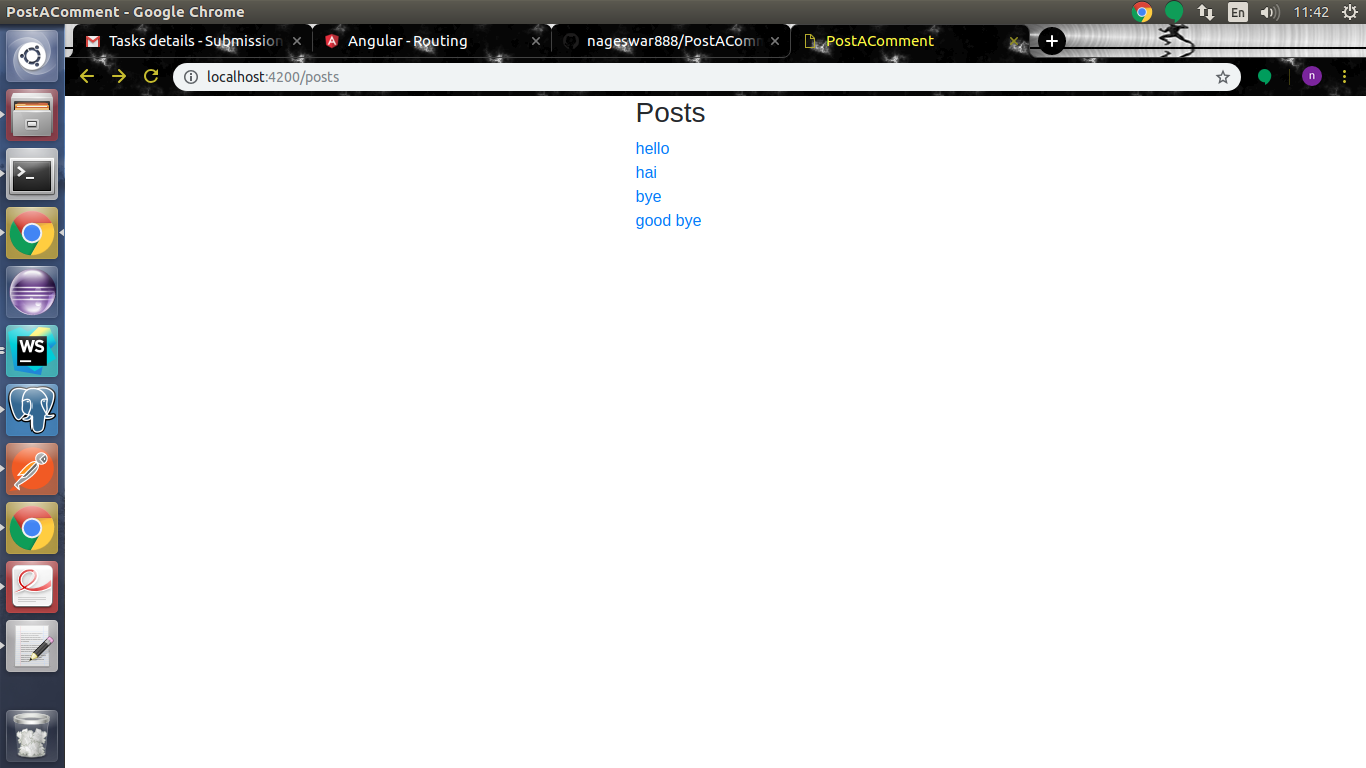
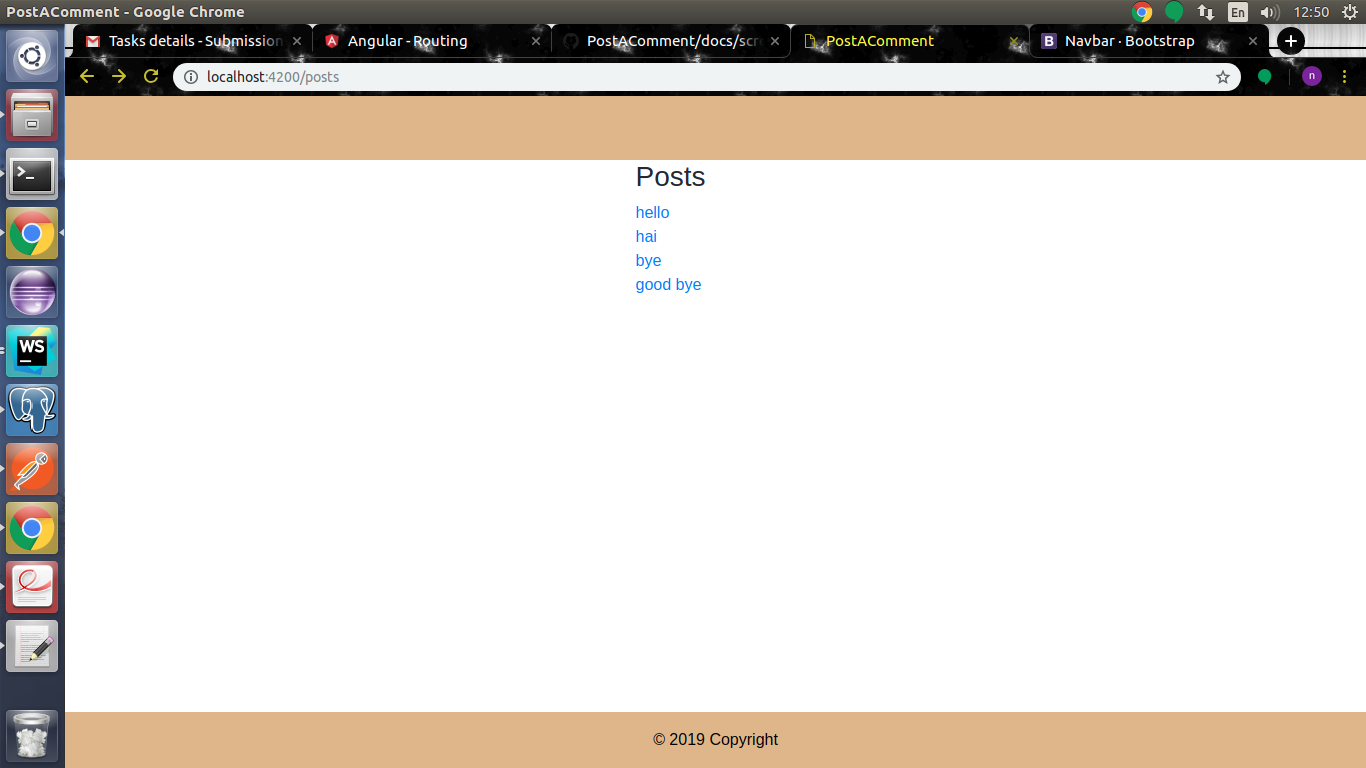
Post A Comment task

diff --git a/client/postAComment/src/app/app.component.html b/client/postAComment/src/app/app.component.html
@@ -1,3 +1,16 @@
+<nav class="navbar navbar-expand-lg navbar-light  navbar-custom">
+  <br><br>
+</nav>
 
+  <router-outlet></router-outlet>
 
-<router-outlet></router-outlet>
+<div>&nbsp;<br>&nbsp;<br>&nbsp;<br>&nbsp;</div>
+
+<div class="container-fluid">
+  <div class="row">
+    <footer class="page-footer font-small blue" id="footer">
+      <div class="footer-copyright text-center py-3">© 2019 Copyright
+      </div>
+    </footer>
+  </div>
+</div>

diff --git a/client/postAComment/src/app/comments-likes/comments-likes.component.html b/client/postAComment/src/app/comments-likes/comments-likes.component.html
@@ -2,7 +2,7 @@
 <div><br><br></div>
 <div class="container">
   <div class="row">
-    <div class="col-md-4"></div>
+    <div class="col-md-5"></div>
     <div class="col-md-4">
       <p>Post details here</p>
       <button (click)="add_comment()">comments</button>&nbsp;

diff --git a/client/postAComment/src/app/app.component.css b/client/postAComment/src/app/app.component.css
@@ -1,0 +1,13 @@
+.navbar-custom {
+  background-color: burlywood;
+}
+
+#footer{
+  background-color: burlywood;
+  position: fixed;
+  left: 0;
+  bottom: 0px;
+  width: 100%;
+  color: black;
+  text-align: center;
+}
